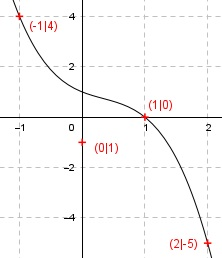
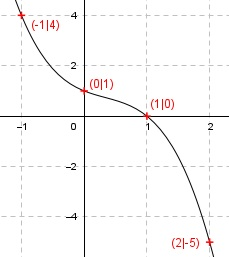
Add files via upload

diff --git a/Steck_Aufgabe134.html b/Steck_Aufgabe134.html
@@ -36,9 +36,9 @@ K’<sub>(x)</sub> = 3ax<sup>2</sup> + 2bx + c
 
 K’’<sub>(x)</sub> = 6ax + 2b 
 
-                            K<sub>(x)</sub>                            
+                            K<sub>(x)</sub>
 Stückkostenfunktion k<sub>(x)</sub> = ------ =  
-                              x                      
+                              x
                   d
 = ax<sup>2</sup> + bx + c + ---
                   x 
@@ -157,11 +157,11 @@ x<sub>1</sub> = x0 - -------
            k’<sub>(x0)</sub> 
         
 x0           k(x0)        k'(x0)       B1/C1  
-3,5          -3,75        31,5        -0,11904762
-3,61904762   0,2159594    35,1564626   0,00614281  
-3,61290481   0,0005925    34,9636293   1,6946E-05
-3,61288786   4,5021E-09   34,963098    1,2877E-10
-A            B            C            D
+3,5          -3,75        31,5         -0,11904762
+3,61904762   0,2159594    35,1564626    0,00614281  
+3,61290481   0,0005925    34,9636293    1,6946E-05
+3,61288786   4,5021E-09   34,963098     1,2877E-10
+A            B            C             D
  
 x0 - D1
 3,61904762
@@ -169,7 +169,6 @@ x0 - D1
 3,61288786
 3,61288786
 E
-
 
 Der letzte Wert in der Spalte E ist der gesuchte. 
 Mit ausreichender Genauigkeit 

diff --git a/Steck2.html b/Steck2.html
@@ -428,8 +428,8 @@ Wie lautet seine Funktionsgleichung?
 
 Der Graph einer ganzrationalen Funktion 3. Grades 
 geht durch den Koordinatenursprung, hat bei x = 6 
-eine Nullstelleund bei x = 3 einen Wendepunkt mit 
-der Steigung - 3.
+eine Nullstelle und bei x = 3 einen Wendepunkt mit 
+der Steigung -3.
 Wie lautet seine Funktionsgleichung? 
 
 f<sub>(x)</sub> = (1/3)x<sup>3</sup> - 3x<sup>2</sup> + <input type="text" id="Eintrag38" maxlength="1" size="1" style= background-color:yellow ></input> x <button id="Pruef38" onclick="Aufgabe38()">Prüfen</button></p></pre>
@@ -1152,7 +1152,7 @@ symmetrischen Funktion 3. Grades, hat im Punkt
 (1|0) die Steigung -3.
 Wie lautet seine Funktionsgleichung?
 
-f<sub>(x)</sub> = - 1,5x<sup>3</sup> + <input type="text" id="Eintrag76" maxlength="3" size="1" style= background-color:yellow ></input> x<sup>2</sup> <button id="Pruef76" onclick="Aufgabe76()">Prüfen</button></p></pre>
+f<sub>(x)</sub> = -1,5x<sup>3</sup> + <input type="text" id="Eintrag76" maxlength="3" size="1" style= background-color:yellow ></input> x <button id="Pruef76" onclick="Aufgabe76()">Prüfen</button></p></pre>
 
  
                       <script>

diff --git a/Steck5.html b/Steck5.html
@@ -202,7 +202,7 @@ Er muss <input type="text" id="Eintrag124" maxlength="4" size="1" style= backgro
                           if (Eintrag124.value=="2,93") {alert("Richtig"); document.getElementById("Pruef124").disabled= true;
                           }  
                            
-                          else if (Eintrag124.value!=="-2,9" && Eintrag124.value!=="") {alert("Leider falsch. Die Lösung wird angezeigt."); document.getElementById("Eintrag124").value="2,9"; window.open('Steck_Aufgabe124.html');           
+                          else if (Eintrag124.value!=="-2,93" && Eintrag124.value!=="") {alert("Leider falsch. Die Lösung wird angezeigt."); document.getElementById("Eintrag124").value="2,93"; window.open('Steck_Aufgabe124.html');           
                           document.getElementById("Pruef124").disabled= true;}
                                
                           else if (Eintrag124.value=="") {alert("Bitte eine Eingabe machen")}}
@@ -614,7 +614,7 @@ Reaktionsstärke R   0     1,25     4     8
 Welche Dosis ist erforderlich, 
 wenn R = 6,25 auftreten soll? 
 
-Sie muss <input type="text" id="Eintrag142" maxlength="3" size="1" style= background-color:yellow ></input> kg odr 5kg betragen. <button id="Pruef142" onclick="Aufgabe142()">Prüfen</button></p></pre>
+Sie muss <input type="text" id="Eintrag142" maxlength="3" size="1" style= background-color:yellow ></input> kg oder 5kg betragen. <button id="Pruef142" onclick="Aufgabe142()">Prüfen</button></p></pre>
 
                       <script>
                         function Aufgabe142() { 

diff --git a/Steck_Aufgabe142.html b/Steck_Aufgabe142.html
@@ -29,7 +29,7 @@ Dosis in kg gemessen.
 (R = 0 bedeutet keine Reaktion, je größer R, 
 desto größer die Reaktion).  
 
-Dosis in kg            0     1        2     4               
+Dosis in kg            0     1        2     4
 Reaktionsstärke R      0     1,25     4     8  
 
 Welche Dosis ist erforderlich, wenn R = 6,25 
@@ -164,7 +164,7 @@ x<sub>1,2</sub> = <math mathsize="1em"><mo>&#x2212;</mo><mfrac><mrow><mo>&#x2212
 x<sub>1,2</sub> = 0,5 ± <math mathsize="0.9em"><msqrt><mrow><mn>0</mn><mo>,</mo><mn>25</mn><mo>+</mo><mn>5</mn></mrow></msqrt></math>
 
 x<sub>1,2</sub> = 0,5 ± <math mathsize="0.9em"><msqrt><mrow><mn>5</mn><mo>,</mo><mn>25</mn></mrow></msqrt></math> 
-                                                    
+
 x<sub>1,2</sub> = 0,5 ± 2,3 
  
 x<sub>1</sub> = 0,5 + 2,3 = 2,8 

diff --git a/Steck_Aufgabe149.html b/Steck_Aufgabe149.html
@@ -34,8 +34,8 @@ keine Fixkosten
  
 k<sub>(x)</sub> = k<sub>v(x)</sub> --> d = 0 
  
-                K<sub>(x)</sub>     K<sub>v(x)</sub>     ax<sup>3</sup> + bx<sup>2</sup> + cx                           
-k<sub>(x)</sub> = k<sub>v(x)</sub> = ------ = ------- = ----------------- =   
+                K<sub>(x)</sub>     K<sub>v(x)</sub>     ax<sup>3</sup> + bx<sup>2</sup> + cx
+k<sub>(x)</sub> = k<sub>v(x)</sub> = ------ = ------- = ----------------- =
                   x        x              x
 
 = ax<sup>2</sup> + bx + c

diff --git a/Steck1.html b/Steck1.html
@@ -233,7 +233,7 @@ Alle Graphen einer ganzrationalen Funktion
 (0|-4). Wie lautet die Funktionsgleichung 
 dieser Kurvenschar?
 
-f<sub>(x)</sub> = ax<sup>2</sup> + (4a - 1) - <input type="text" id="Eintrag12" maxlength="1" size="1" style= background-color:yellow ></input> <button id="Pruef12" onclick="Aufgabe12()">Prüfen</button></p></pre><nobr>
+f<sub>(x)</sub> = ax<sup>2</sup> + (4a - 1)x - <input type="text" id="Eintrag12" maxlength="1" size="1" style= background-color:yellow ></input> <button id="Pruef12" onclick="Aufgabe12()">Prüfen</button></p></pre><nobr>
 
  
                       <script>

diff --git a/Steck_Aufgabe4.html b/Steck_Aufgabe4.html
@@ -54,7 +54,7 @@ a + b = 0           I
 3. Geht durch den Punkt (2|3) bedeutet: 
 (c = 0 eingesetzt) 
  
-ff<sub>(2)</sub> = 3 --> 
+f<sub>(2)</sub> = 3 --> 
 
 a * 2<sup>2</sup> + b * 2 + 0 = 3 --> 
 

diff --git a/Steck_Aufgabe56.html b/Steck_Aufgabe56.html
@@ -93,6 +93,6 @@ b = 2 in II eingesetzt:
 
 Gesuchte Funktionsgleichung: 
 
-<span style="color:red">f<sub>(x)</sub> = (2/3)x<sup>3</sup> + 2x<sup>2</sup> - x + 1</span>
+<span style="color:red">f<sub>(x)</sub> = (2/3)x<sup>3</sup> + 2x<sup>2</sup></span>
 
 </b></p></pre></body></html>